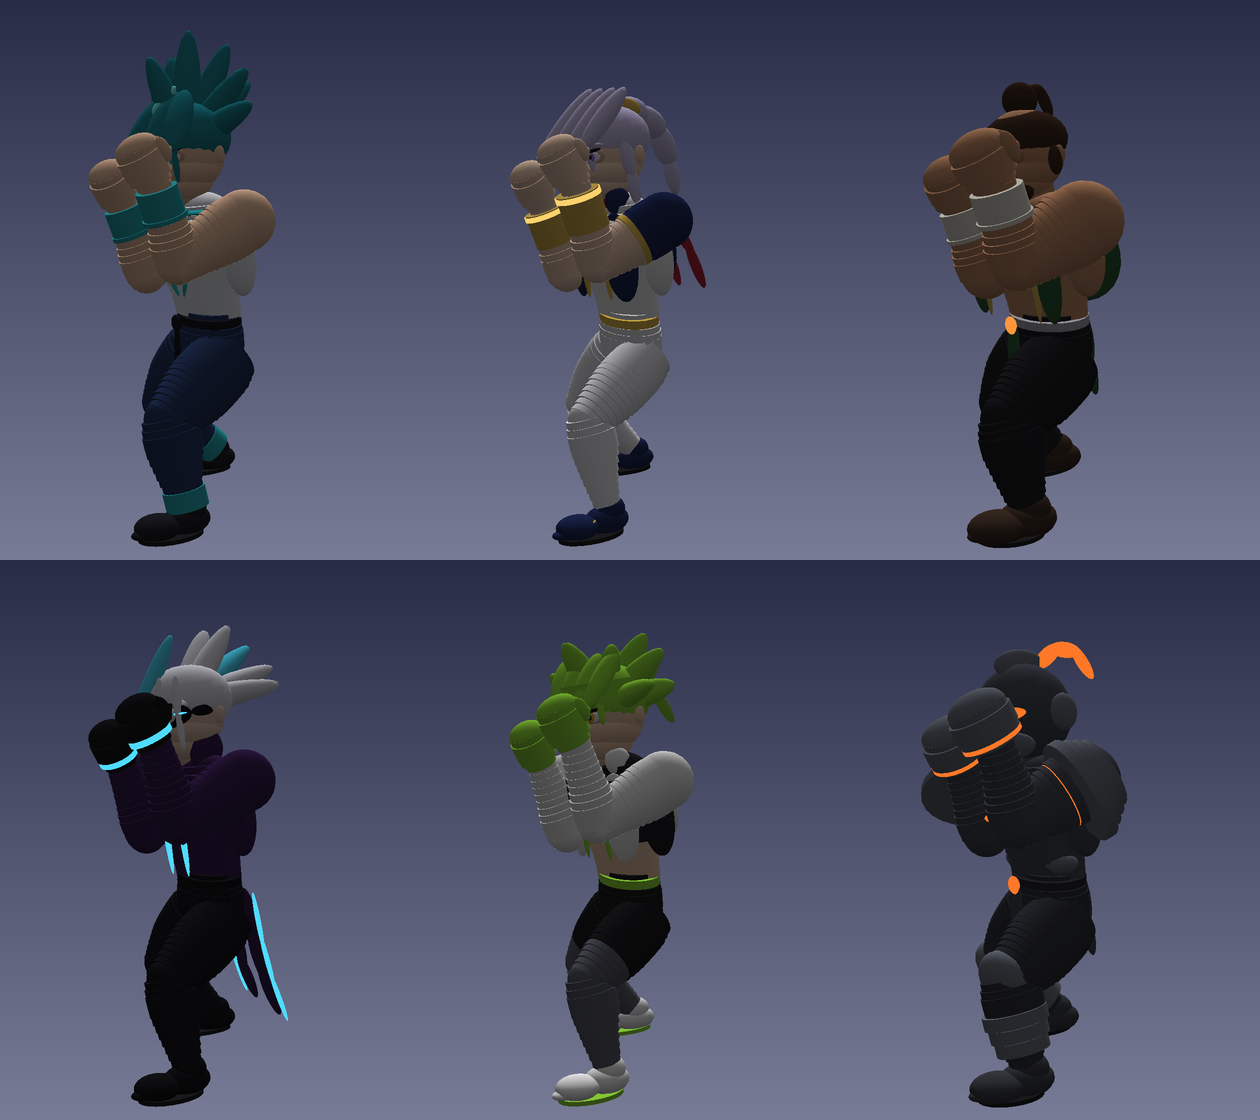
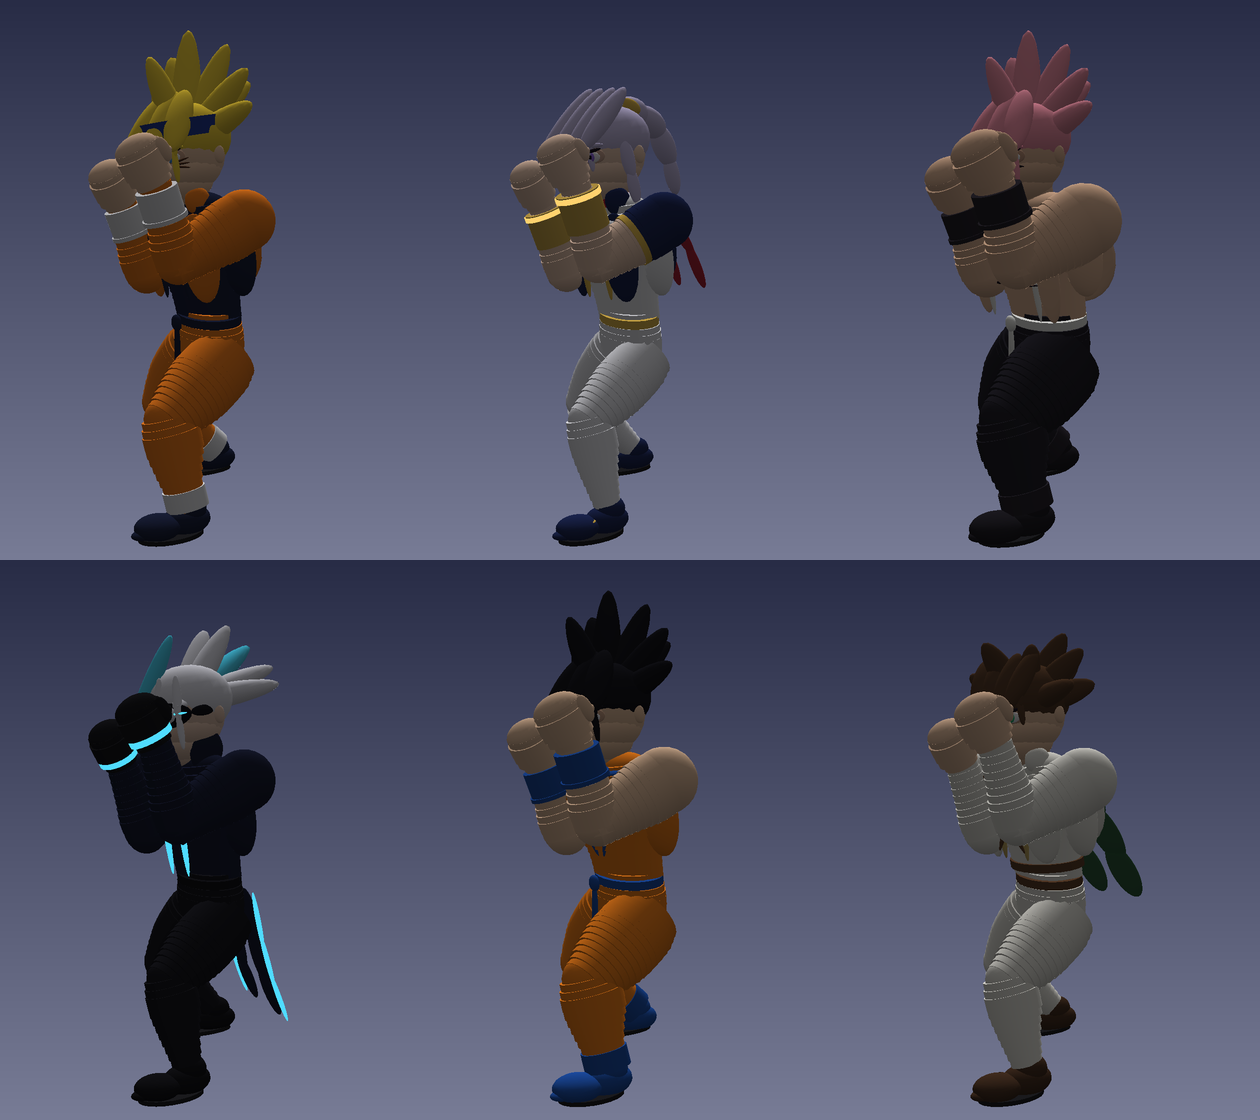
Restyle roster as anime archetypes: ninja, sky warrior, cursed king, sorcerer, scout
Claude-Session: https://claude.ai/code/session_01EsCYcC3hHM1L1gXoXMADrN

diff --git a/tests/test_models.py b/tests/test_models.py
@@ -115,8 +115,8 @@ class Models(unittest.TestCase):
             m = self.FM.build(f.id, 1, f.name)
             life = self.Life.new(m, 3)
             n = len(lua_list(life.lids))
-            if f.id in ("VEX", "GOR"):
-                self.assertEqual(n, 0, f"{f.id} has a visor/helmet, nothing to blink")
+            if f.id == "VEX":
+                self.assertEqual(n, 0, f"{f.id} has a blindfold, nothing to blink")
                 continue
             self.assertEqual(n, 4, f"{f.id}: two eyes x (lid + lash)")
             lids = lua_list(life.lids)
